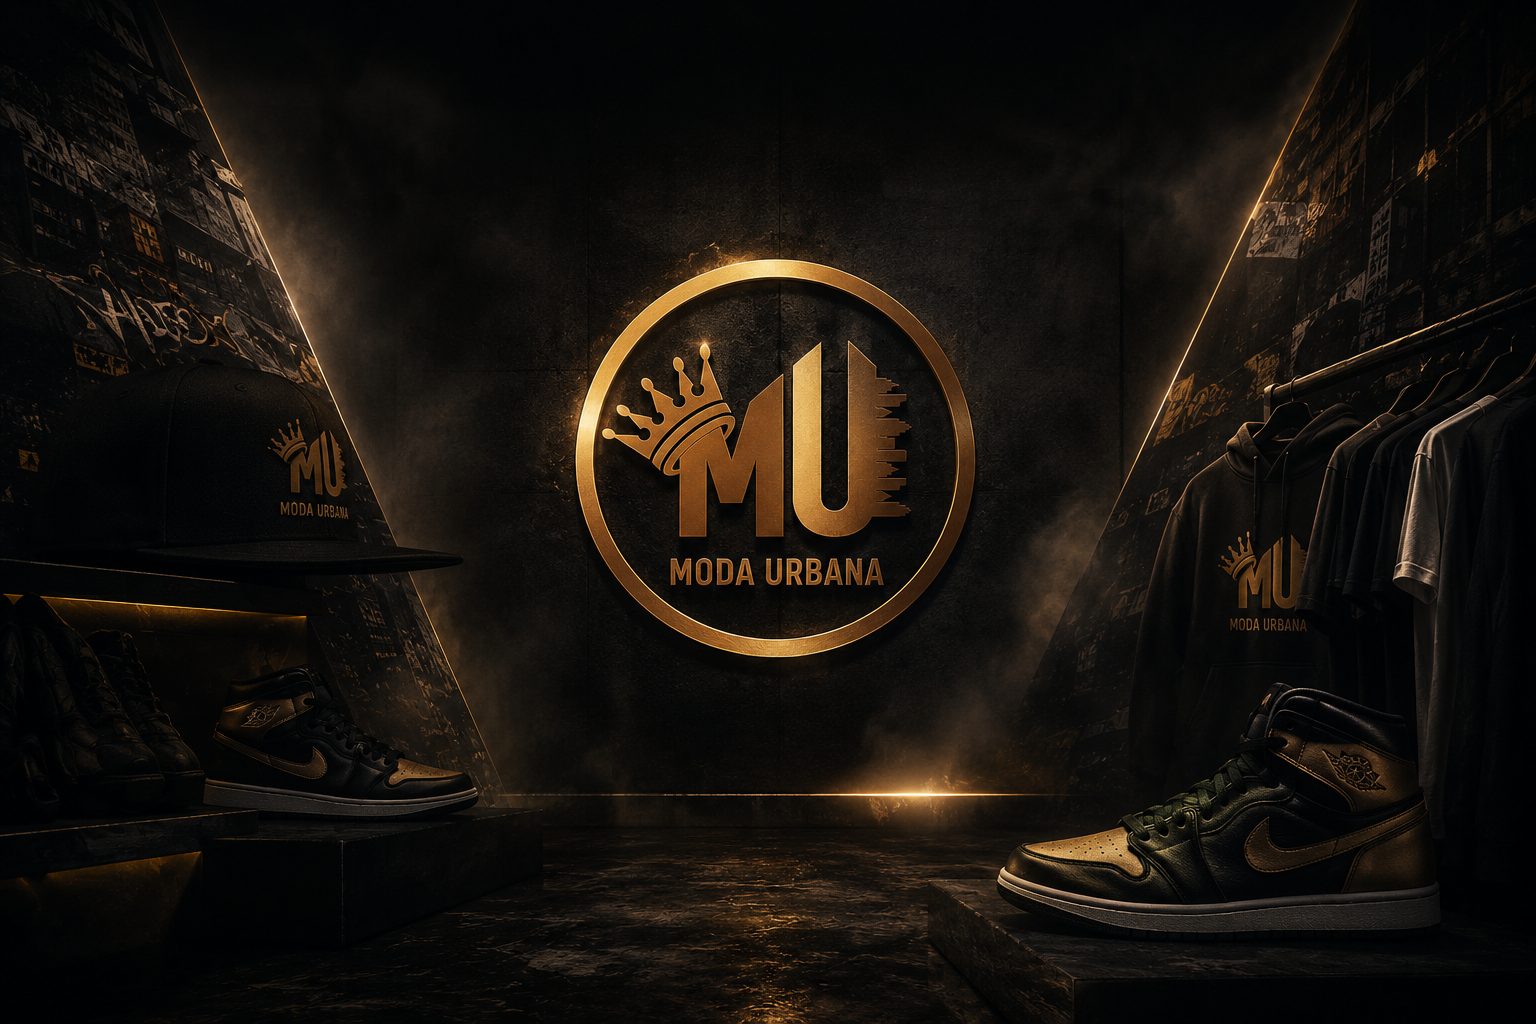
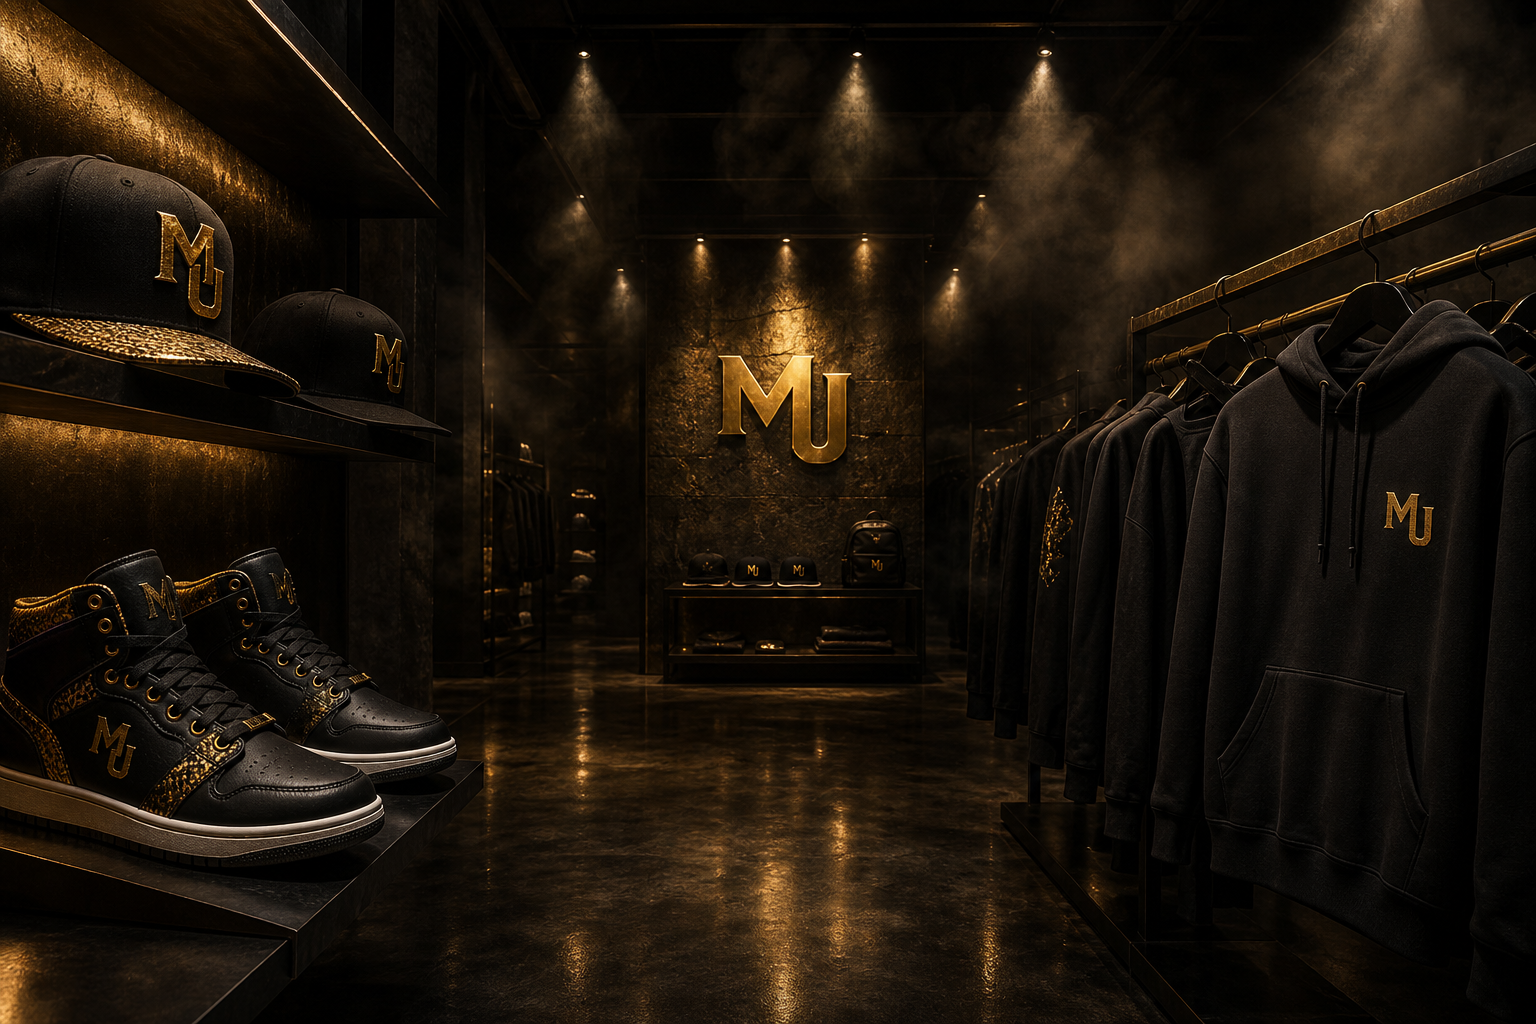
feat(web): pulir login Moda Urbana y actualizar assets de marca
Mejora estabilidad del formulario de login, máscara del logo y fondos definitivos de branding.

diff --git a/apps/web/src/index.css b/apps/web/src/index.css
@@ -191,8 +191,56 @@
   -webkit-backdrop-filter: blur(24px);
 }
 
+.login-identity-mark-wrap {
+  position: relative;
+  isolation: isolate;
+  aspect-ratio: 1;
+}
+
+.login-identity-mark-wrap::before {
+  content: '';
+  position: absolute;
+  inset: 14%;
+  z-index: 0;
+  border-radius: 50%;
+  background: radial-gradient(
+    circle at 50% 50%,
+    rgb(0 0 0 / 0.32) 0%,
+    rgb(0 0 0 / 0.18) 42%,
+    rgb(0 0 0 / 0.06) 58%,
+    rgb(0 0 0 / 0) 72%
+  );
+  filter: blur(8px);
+  pointer-events: none;
+}
+
 .login-identity-mark {
-  mix-blend-mode: screen;
+  position: relative;
+  z-index: 1;
+  -webkit-mask-image: radial-gradient(
+    circle at 50% 50%,
+    #000 0%,
+    #000 52%,
+    rgb(0 0 0 / 0.96) 54%,
+    rgb(0 0 0 / 0.78) 57%,
+    rgb(0 0 0 / 0.45) 61%,
+    rgb(0 0 0 / 0.14) 66%,
+    transparent 73%
+  );
+  mask-image: radial-gradient(
+    circle at 50% 50%,
+    #000 0%,
+    #000 52%,
+    rgb(0 0 0 / 0.96) 54%,
+    rgb(0 0 0 / 0.78) 57%,
+    rgb(0 0 0 / 0.45) 61%,
+    rgb(0 0 0 / 0.14) 66%,
+    transparent 73%
+  );
+  -webkit-mask-repeat: no-repeat;
+  mask-repeat: no-repeat;
+  -webkit-mask-size: 100% 100%;
+  mask-size: 100% 100%;
 }
 
 @keyframes report-hero-enter {

diff --git a/apps/web/src/features/auth/components/login-form.tsx b/apps/web/src/features/auth/components/login-form.tsx
@@ -24,11 +24,12 @@ export function LoginForm() {
   const { login } = useAuth()
   const [submitError, setSubmitError] = useState<string | null>(null)
   const [showPassword, setShowPassword] = useState(false)
+  const [isLoggingIn, setIsLoggingIn] = useState(false)
 
   const {
     register,
     handleSubmit,
-    formState: { errors, isSubmitting },
+    formState: { errors },
   } = useForm<LoginFormValues>({
     resolver: zodResolver(loginSchema),
     defaultValues: {
@@ -39,6 +40,7 @@ export function LoginForm() {
 
   const onSubmit = handleSubmit(async (values) => {
     setSubmitError(null)
+    setIsLoggingIn(true)
 
     try {
       await login(values.email, values.password)
@@ -47,13 +49,14 @@ export function LoginForm() {
         '/dashboard'
       navigate(redirectTo === '/login' ? '/dashboard' : redirectTo, { replace: true })
     } catch (error) {
-      const apiError = getApiError(error)
-      setSubmitError(apiError.message)
+      setSubmitError(getApiError(error).message)
+    } finally {
+      setIsLoggingIn(false)
     }
   })
 
   return (
-    <div className="login-form-enter login-glass-body h-[550px] w-full max-w-md overflow-hidden rounded-2xl border border-white/15 px-6 py-8 shadow-[0_24px_64px_rgb(0_0_0_/_0.35)] sm:px-8">
+    <div className="login-form-enter login-glass-body flex min-h-[550px] w-full max-w-md flex-col rounded-2xl border border-white/15 px-6 py-8 shadow-[0_24px_64px_rgb(0_0_0_/_0.35)] sm:px-8">
       <ModaUrbanaIdentity />
 
       <form className="flex flex-col gap-5" onSubmit={onSubmit} noValidate>
@@ -68,7 +71,7 @@ export function LoginForm() {
                 type="email"
                 autoComplete="email"
                 placeholder="Ingresa tu email"
-                disabled={isSubmitting}
+                disabled={isLoggingIn}
                 className="login-input h-11 shadow-none pl-10"
                 {...register('email')}
               />
@@ -89,7 +92,7 @@ export function LoginForm() {
                 type={showPassword ? 'text' : 'password'}
                 autoComplete="current-password"
                 placeholder="Ingresa tu contraseña"
-                disabled={isSubmitting}
+                disabled={isLoggingIn}
                 className="login-input h-11 pr-10 pl-10 shadow-none"
                 {...register('password')}
               />
@@ -97,6 +100,7 @@ export function LoginForm() {
                 type="button"
                 className="absolute top-1/2 right-3 -translate-y-1/2 text-neutral-400 transition-colors hover:text-neutral-200"
                 aria-label={showPassword ? 'Ocultar contraseña' : 'Mostrar contraseña'}
+                disabled={isLoggingIn}
                 onClick={() => setShowPassword((prev) => !prev)}
               >
                 {showPassword ? <EyeOff className="size-4" /> : <Eye className="size-4" />}
@@ -107,24 +111,29 @@ export function LoginForm() {
             ) : null}
           </div>
 
-          {submitError ? (
-            <div
-              className="rounded-lg border border-red-500/30 bg-red-500/10 px-3 py-2 text-sm text-red-300"
-              role="alert"
-            >
-              {submitError}
-            </div>
-          ) : null}
+          <div
+            className={cn(
+              'min-h-[2.75rem] rounded-lg border px-3 py-2 text-sm transition-colors',
+              submitError
+                ? 'border-red-500/30 bg-red-500/10 text-red-300'
+                : 'border-transparent bg-transparent'
+            )}
+            role={submitError ? 'alert' : undefined}
+            aria-live="polite"
+            aria-hidden={!submitError}
+          >
+            {submitError}
+          </div>
 
           <Button
             type="submit"
-            disabled={isSubmitting}
+            disabled={isLoggingIn}
             className={cn(
               'h-11 w-full rounded-lg border-0 text-sm font-semibold tracking-wide',
               'bg-white text-neutral-950 hover:bg-neutral-100'
             )}
           >
-            {isSubmitting ? (
+            {isLoggingIn ? (
               <>
                 <Loader2 className="animate-spin" />
                 Ingresando…

diff --git a/apps/web/src/features/auth/components/moda-urbana-identity.tsx b/apps/web/src/features/auth/components/moda-urbana-identity.tsx
@@ -3,12 +3,14 @@ const MODA_URBANA_LOGO = '/moda-urbana-logo.png'
 export function ModaUrbanaIdentity() {
   return (
     <>
-      <img
-        src={MODA_URBANA_LOGO}
-        alt="Moda Urbana"
-        draggable={false}
-        className="login-identity-mark mx-auto mb-3 block h-auto w-[min(14rem,72%)] max-w-full select-none object-contain py-2"
-      />
+      <div className="login-identity-mark-wrap mx-auto mb-3 w-[min(14rem,72%)]">
+        <img
+          src={MODA_URBANA_LOGO}
+          alt="Moda Urbana"
+          draggable={false}
+          className="login-identity-mark block h-auto w-full select-none object-contain py-2"
+        />
+      </div>
       <p className="mb-16 text-center text-xs font-medium tracking-[0.32em] text-amber-200/80 uppercase">
         Moda Urbana
       </p>